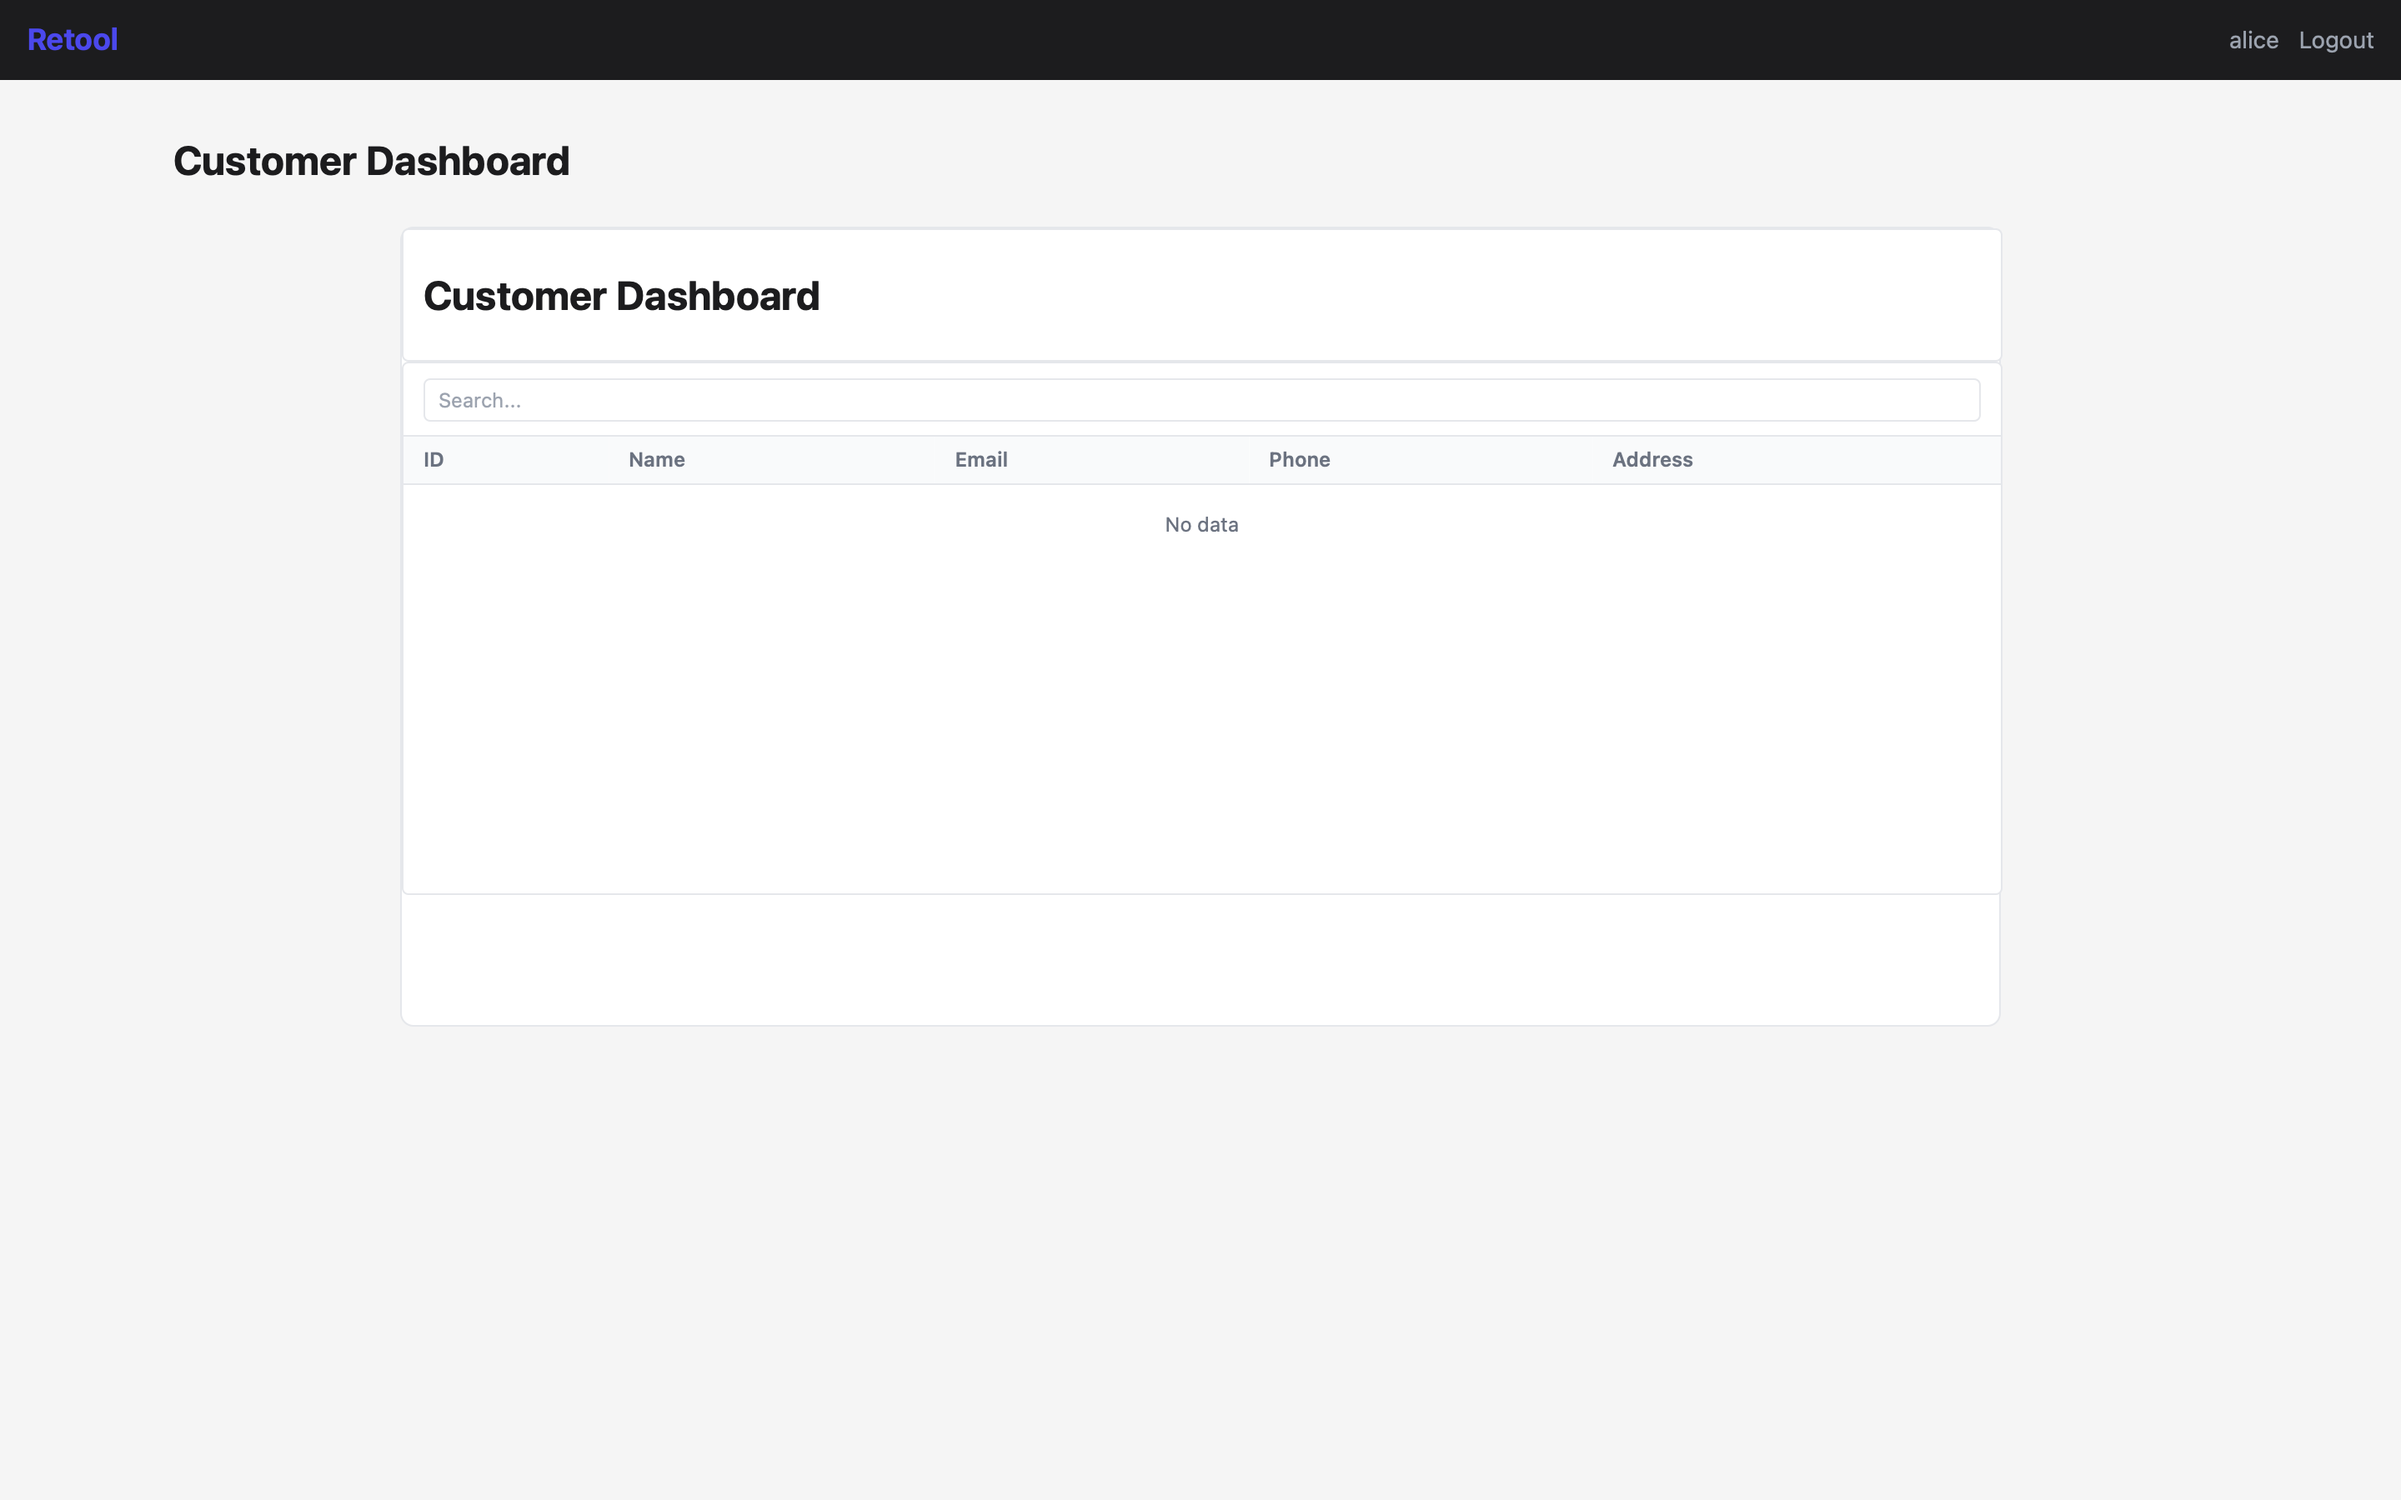
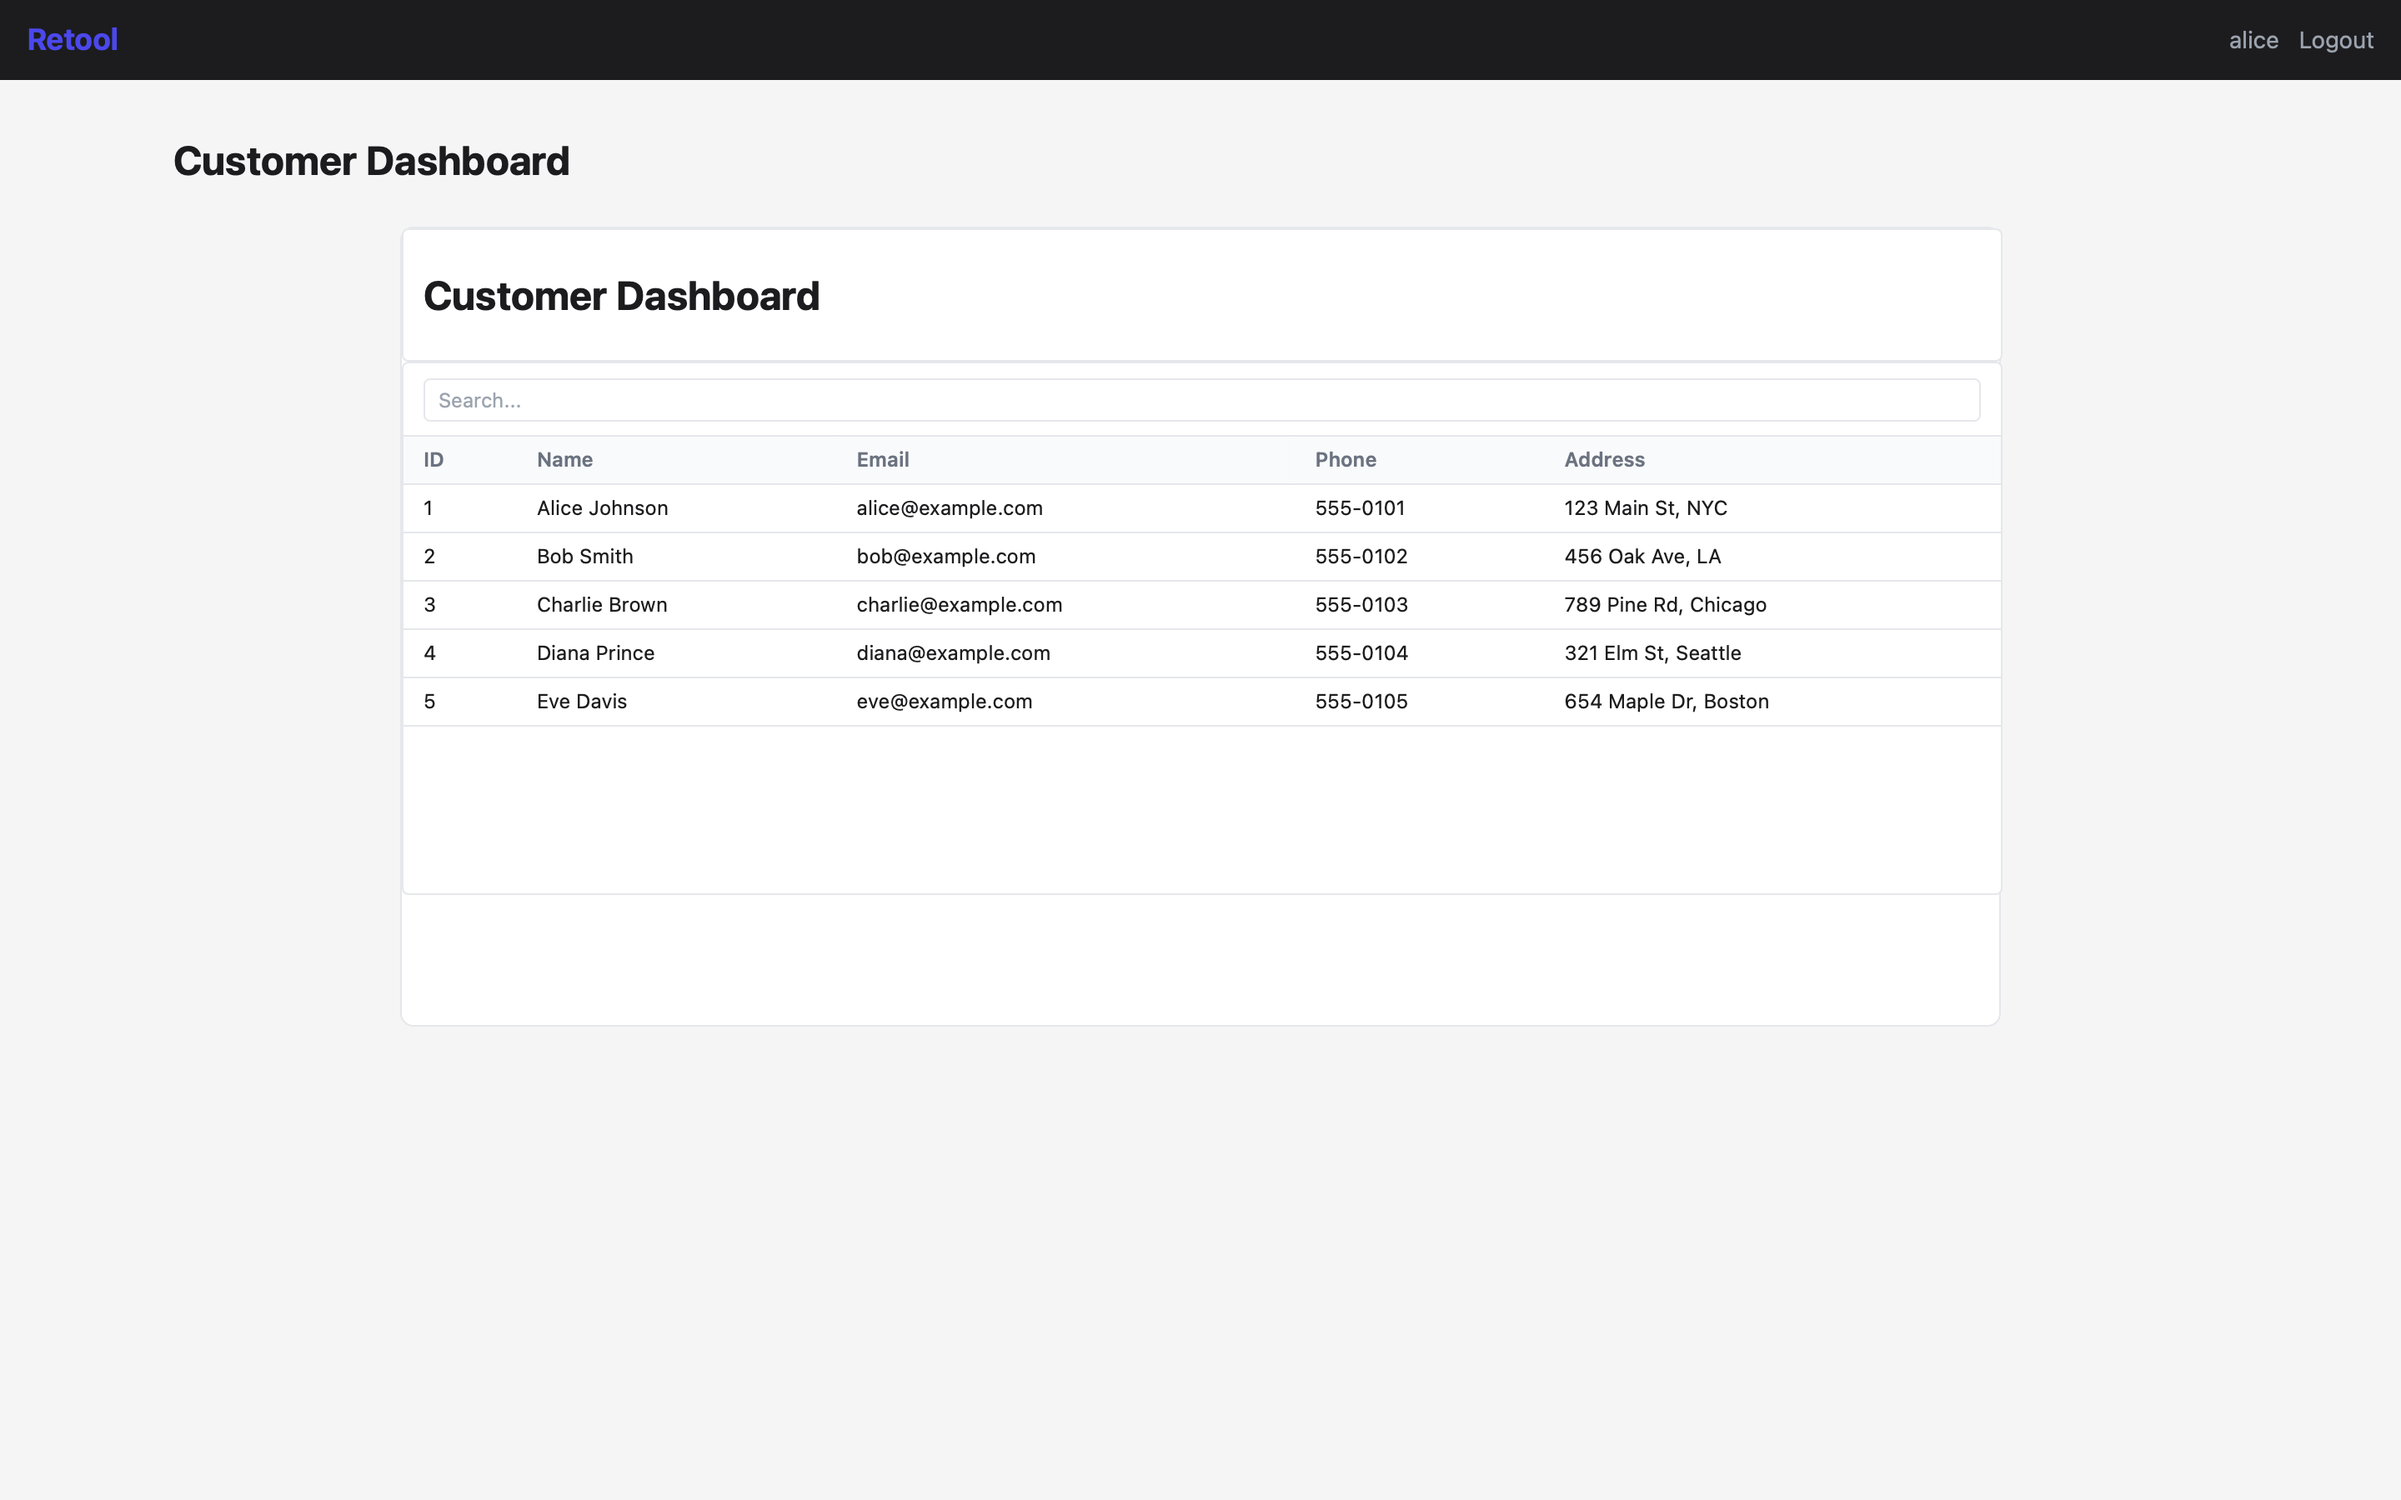
Fix

diff --git a/retool/frontend/src/stores/dataStore.ts b/retool/frontend/src/stores/dataStore.ts
@@ -1,3 +1,4 @@
+import { useMemo } from 'react';
 import { create } from 'zustand';
 import type { DataSource, QueryResult } from '../types';
 import { dataSourcesApi, queriesApi } from '../services/api';
@@ -137,3 +138,30 @@ export const useDataStore = create<DataState>((set, get) => ({
     return context;
   },
 }));
+
+/**
+ * Subscribes to the binding context and recomputes it when the underlying data changes.
+ *
+ * Widgets used to do `const getBindingContext = useDataStore(s => s.getBindingContext)`
+ * and then call it during render. That looks equivalent and is not: Zustand
+ * re-renders only when the *selected value* changes, and the selected value there
+ * is a function whose reference is stable for the life of the store. So a widget
+ * subscribed to nothing that ever changes — it computed the context once, on first
+ * render, while `queryResults` was still empty, and never recomputed. The visible
+ * symptom was a table that showed "No data" forever even though the query had
+ * returned rows and the store held them.
+ *
+ * Selecting the state slices instead means the widget re-renders when they are
+ * replaced, and the `useMemo` keeps the context object identity stable between
+ * those updates — returning a freshly built object straight from a selector would
+ * make the snapshot never compare equal and loop forever.
+ */
+export function useBindingContext(): Record<string, unknown> {
+  const queryResults = useDataStore((s) => s.queryResults);
+  const componentValues = useDataStore((s) => s.componentValues);
+  const getBindingContext = useDataStore((s) => s.getBindingContext);
+  return useMemo(
+    () => getBindingContext(),
+    [queryResults, componentValues, getBindingContext],
+  );
+}

diff --git a/retool/frontend/src/components/widgets/TableWidget.tsx b/retool/frontend/src/components/widgets/TableWidget.tsx
@@ -1,6 +1,6 @@
 import { useMemo, useState } from 'react';
 import type { AppComponent } from '../../types';
-import { useDataStore } from '../../stores/dataStore';
+import { useBindingContext } from '../../stores/dataStore';
 import { resolveBindingValue, hasBindings } from '../../utils/bindings';
 
 interface TableWidgetProps {
@@ -10,11 +10,10 @@ interface TableWidgetProps {
 
 /** Renders a data table widget with sortable columns and row selection. */
 export function TableWidget({ component }: TableWidgetProps) {
-  const getBindingContext = useDataStore((s) => s.getBindingContext);
   const [page, setPage] = useState(0);
   const [search, setSearch] = useState('');
 
-  const context = getBindingContext();
+  const context = useBindingContext();
 
   // Resolve data binding
   const rawData = useMemo(() => {

diff --git a/retool/frontend/src/components/widgets/ChartWidget.tsx b/retool/frontend/src/components/widgets/ChartWidget.tsx
@@ -1,6 +1,6 @@
 import { useMemo } from 'react';
 import type { AppComponent } from '../../types';
-import { useDataStore } from '../../stores/dataStore';
+import { useBindingContext } from '../../stores/dataStore';
 import { resolveBindingValue, hasBindings } from '../../utils/bindings';
 
 interface ChartWidgetProps {
@@ -10,8 +10,7 @@ interface ChartWidgetProps {
 
 /** Renders a chart widget with configurable chart type and data bindings. */
 export function ChartWidget({ component }: ChartWidgetProps) {
-  const getBindingContext = useDataStore((s) => s.getBindingContext);
-  const context = getBindingContext();
+  const context = useBindingContext();
 
   const chartType = (component.props.type as string) || 'bar';
   const title = (component.props.title as string) || '';

diff --git a/retool/frontend/src/components/widgets/TextWidget.tsx b/retool/frontend/src/components/widgets/TextWidget.tsx
@@ -1,6 +1,6 @@
 import { useMemo } from 'react';
 import type { AppComponent } from '../../types';
-import { useDataStore } from '../../stores/dataStore';
+import { useBindingContext } from '../../stores/dataStore';
 import { resolveBindings, hasBindings } from '../../utils/bindings';
 
 interface TextWidgetProps {
@@ -10,8 +10,7 @@ interface TextWidgetProps {
 
 /** Renders a text display widget with binding-resolved content. */
 export function TextWidget({ component }: TextWidgetProps) {
-  const getBindingContext = useDataStore((s) => s.getBindingContext);
-  const context = getBindingContext();
+  const context = useBindingContext();
 
   const rawValue = (component.props.value as string) || '';
   const fontSize = (component.props.fontSize as number) || 14;

diff --git a/retool/CLAUDE.md b/retool/CLAUDE.md
@@ -87,6 +87,10 @@ Simulated or omitted: `data_sources.type` permits `rest_api` in the CHECK constr
 - **`dev:server2` / `dev:server3` don't do what they look like:** they're written as `PORT=3002 npm run dev`, and `dev` itself begins with `PORT=3001`, so the inner assignment wins and all three land on 3001. Multi-instance testing needs the port set inside the `dev` invocation, not around it.
 - **Target-pool leak on error (fixed):** `getTargetPool` now registers a `pool.on('error')` handler that evicts the pool from the `Map`. Without it, a target database restart left a dead pool cached forever and every subsequent query for that data source failed until the API was restarted.
 - **Two Postgres containers, one port collision to watch:** the target database is deliberately mapped to **5433**, not 5432. Running another project from this repo at the same time will collide on 5432 (and the seeded data source hardcodes `localhost:5433`, so changing the mapping breaks the seed).
+- **2026-08-04 — the table rendered "No data" in both the editor and preview, while the query returned five rows.** Two independent faults on the binding path, and the API was innocent throughout (`POST /api/queries/execute` returned 200 with all five customers the whole time):
+  1. **The seeded binding referenced the query's `id`, not its `name`.** Both `QueryPanel` and `PreviewRenderer` store results under `query.name` (`stores/dataStore.ts`), so `{{ query1.data }}` — where `query1` is the *id* and `getCustomers` is the name — resolved to nothing. The code is self-consistent on names; only the seed disagreed. Fixed the seed to bind `{{ getCustomers.data }}`.
+  2. **Three widgets subscribed to a function instead of to data.** `TableWidget`, `ChartWidget` and `TextWidget` each did `const getBindingContext = useDataStore(s => s.getBindingContext)` and then called it during render. Zustand re-renders only when the *selected value* changes, and a store action's reference is stable forever — so those widgets were subscribed to nothing that ever changes. They computed the binding context once, on first render, while `queryResults` was still empty, and never recomputed. Added `useBindingContext()`, which selects the `queryResults`/`componentValues` slices (so the widget re-renders when they change) and memoizes the derived object (so it isn't rebuilt on every call — returning a fresh object straight from a selector is the classic Zustand infinite-loop).
+  - Worth noting for the editor screenshot: "No data" **is** correct there. `on_load` queries run only in `PreviewRenderer`, deliberately — an editor shouldn't hit a customer's database every time an app is opened.
 - **CI:** the repo-wide smoke-test workflow was removed — a runner can't provide two Postgres instances plus Valkey. Verification is local (`npm run triage retool`).
 
 ## Open Questions

diff --git a/reddit/CLAUDE.md b/reddit/CLAUDE.md
@@ -71,6 +71,9 @@ Simplified or omitted: the home feed is global rather than filtered to your subs
 - **Login inputs missing `name` attributes (fixed):** `frontend/src/routes/login.tsx` had unnamed `<input>` elements, so the harness's `input[name='username']` selector matched nothing and fell through to the header's search box — credentials were typed into search and login silently never happened. `name="username"` / `name="password"` were added (commit `273d1a0e`).
 - **Backend port pinned:** `dev` is `PORT=3001 tsx watch src/index.ts` to match the Vite proxy target in `frontend/vite.config.ts`; `index.ts` still defaults to 3000 if `PORT` is unset, so running `tsx src/index.ts` directly will not be reachable through the proxy.
 - **Seed location:** `db-seed/seed.sql` is a placeholder containing only comments — the real fixture is the TypeScript seeder, because bcrypt hashes have to be generated at seed time rather than pasted into SQL.
+- **2026-08-03 — the comment tree had no screenshot because the route was unreachable.** `r.$subreddit.tsx` renders **no `<Outlet />`**, but under TanStack's flat file routing it is the parent of `r.$subreddit.comments.$postId.tsx` — so `/r/programming/comments/1` rendered the subreddit listing and the post page could not be reached by any path. Renamed the listing to `r.$subreddit.index.tsx` so the two are siblings under the root. (Identical to the `transactions.tsx` / `transactions.$id.tsx` case in this repo's payment-system.) The 3-level thread that decision 2 is entirely about had never been visible.
+- **Seed posts all shared one timestamp.** Every post was inserted at `NOW()`, so the feed read "just now" throughout and — more to the point — every post got an identical time term in the hot formula, leaving the time-decay ranking this project is built around with nothing to order by. Posts now carry ages of 1–52 hours, and `hot_score` is computed from each post's real `created_at` rather than from "now".
+- **Screenshots:** 4 → 6, adding the post page with its nested comment thread and a subreddit view.
 - **CI:** the repo-wide smoke-test workflow was removed (a CI runner can't provide the Docker services these tests need).
 
 ## Open Questions
